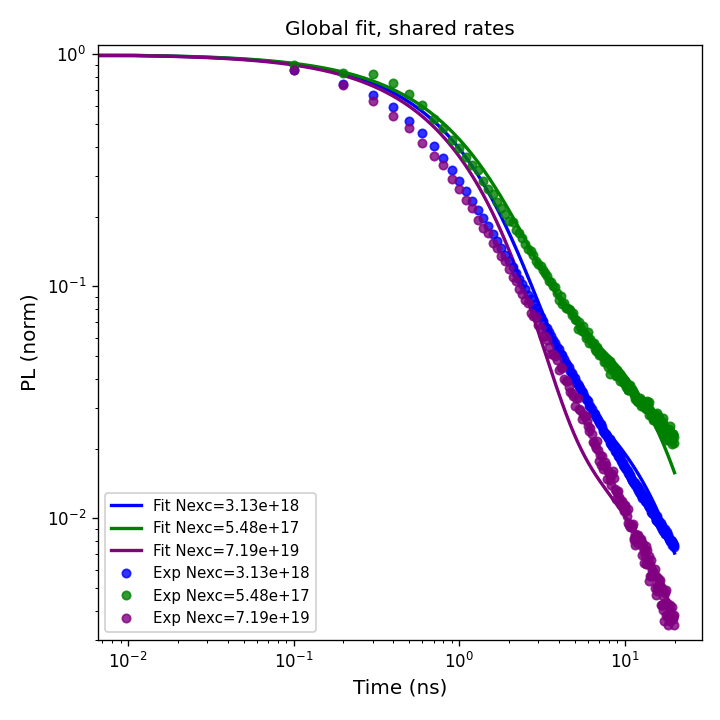
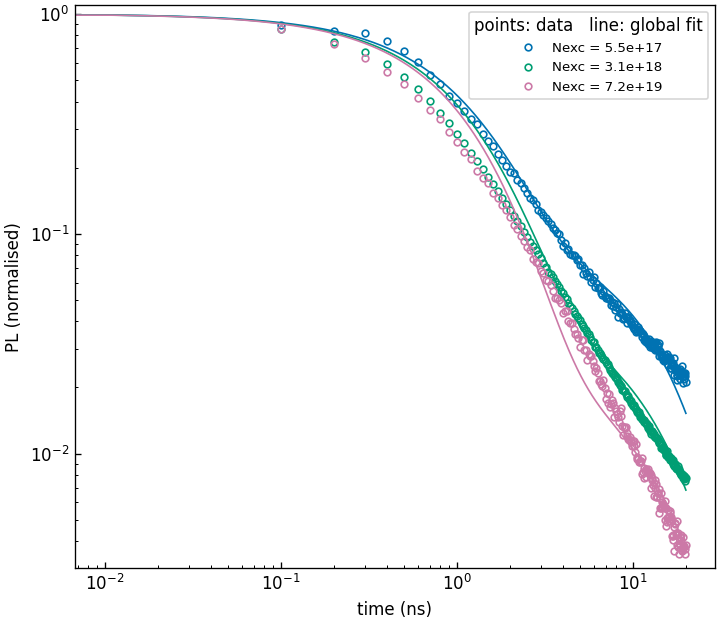
Revise n_inf identifiability writeup: exact Saha degeneracy, recomputed bias bound and weight shares, four panel-revised figures, --no-fit regen

Changed region(s): [[0.0, 0.0, 1.0, 0.9439], [0.4889, 0.9439, 0.6111, 1.0]]

diff --git a/experiments/saha-reaction-diffusion/lifetime_identifiability.py b/experiments/saha-reaction-diffusion/lifetime_identifiability.py
@@ -7,21 +7,26 @@ one ``*_uJcm2.npy`` per fluence (each a dict with ``Time (ns)`` and
   fit       -- global fit of all fluences with one shared rate set
                (nu, rho, lam, gamma, qtrap), only Nexc differing.
   profile   -- deterministic profile likelihood of each rate (fix one, refit the
-               rest; SSR vs the fixed rate), with ~1sigma confidence intervals.
-               A flat profile means the rate is not determined by the data.
-  tradeoff  -- demonstrates the Saha rho<->nu degeneracy: refit nu while
-               profiling rho; nu tracks nu_eff - rho*A (the fit holds nu + rho*A
-               fixed) until rho*A reaches nu and the fit breaks.
+               rest; SSR vs the fixed rate), with an ~1sigma threshold. A flat
+               profile means the rate is not determined by the data.
+  tradeoff  -- the Saha rho<->nu degeneracy: refit nu while profiling rho. nu
+               tracks nu_eff - rho*A (the fit holds nu + rho*A fixed) and lam,
+               gamma do not move, until rho*A reaches nu and the fit breaks.
+  saha      -- the exact Saha identity (1-x) = x^2 n/A makes the exciton rate
+               nu(1-x) and the bimolecular rate rho*x^2*n proportional at all
+               densities (constant ratio nu/(rho*A)), so the fit sees only their
+               sum nu + rho*A. This is why rho is degenerate with nu.
 
 The model mirrors Lifetime_fit_global.py. A Meitner-Auger term was tested
 separately and is not needed for the n_inf data (its coefficient runs to zero),
 so it is omitted here. qratio is shared across fluences.
 
-Example::
+Examples::
 
-    python lifetime_identifiability.py \
-      --data "P:/Marc/shared_data/data_links/Diffusion_simulation_Antonella/TPLM" \
-      --sample n_inf --out output/n_inf_lifetime --mode all
+    python lifetime_identifiability.py --data "<TPLM folder>" --sample n_inf \
+        --out output/n_inf_lifetime --mode all
+    # regenerate the figures from the cached best fit, skipping the optimiser:
+    python lifetime_identifiability.py --data "<TPLM folder>" --no-fit
 """
 from __future__ import annotations
 
@@ -36,10 +41,14 @@ import matplotlib
 matplotlib.use("Agg")
 import matplotlib.pyplot as plt
 
-# fit-space parameter vector: [log10 nu, log10 rho, log10 lam, log10 gamma,
-#                              qtrap, qratio]
+plt.rcParams.update({"axes.grid": False})
+CB = ["#0072B2", "#009E73", "#CC79A7"]   # colorblind-safe: blue, green, magenta
+
 NAMES = ["nu", "rho", "lam", "gamma", "qtrap", "qratio"]
 BOUNDS = [(3, 12), (-18, -8), (3, 9), (3, 11), (0, 100), (0, 100)]
+# cached global best fit (for --no-fit figure regeneration)
+CACHED_BEST = np.array([np.log10(6.58e8), np.log10(5.95e-14), np.log10(4.06e8),
+                        np.log10(1.05e8), 35.96, 98.41])
 
 H = 6.62607015e-34; KB = 1.380649e-23; M0 = 9.10938356e-31
 T = 300.0; Q0 = 1.602176634e-19
@@ -49,9 +58,8 @@ ALPHA = 2e5            # absorption coefficient (1/m), for Nexc from fluence
 
 def load_data(data_dir, sample, laser_nm=LASER_NM):
     """Return (A, Nexc_list, time_list, pl_list) for the sample's fluences."""
-    js = glob.glob(os.path.join(data_dir, "*.json"))
     s = None
-    for j in js:
+    for j in glob.glob(os.path.join(data_dir, "*.json")):
         d = json.load(open(j))
         if isinstance(d, dict) and sample in d:
             s = d[sample]; break
@@ -113,7 +121,6 @@ def ssr(p, data):
     return tot, N
 
 
-# --------------------------------------------------------------------------
 def global_fit(data, seed=50, maxiter=1000):
     res = differential_evolution(lambda p: ssr(p, data)[0], BOUNDS, seed=seed,
                                  maxiter=maxiter, tol=1e-7, popsize=15,
@@ -135,76 +142,102 @@ def _refit_fixing(idx, value, pbest, data):
     return r.fun, r.x, free
 
 
-def profile(data, pbest, out, prefix, npts=21):
-    """Profile each rate; mark the ~1sigma SSR threshold; save a figure."""
-    SSR_min, N = ssr(pbest, data)
-    s2 = SSR_min / (N - 6)
-    thr = SSR_min + s2
-    print(f"SSR_min={SSR_min:.4e} N={N} s^2={s2:.3e}  (1sigma: deltaSSR=s^2)")
-    grids = {0: np.linspace(7.0, 10.0, npts), 2: np.linspace(7.0, 9.0, npts),
-             3: np.linspace(5.0, 11.0, npts+4), 1: np.linspace(-18, -9, npts+4)}
-    fig, axes = plt.subplots(2, 2, figsize=(11, 8))
-    for ax, idx in zip(axes.ravel(), [0, 2, 3, 1]):
-        grid = grids[idx]
-        prof = np.array([_refit_fixing(idx, v, pbest, data)[0] for v in grid])
-        ax.plot(grid, prof, "o-"); ax.axhline(thr, color="g", ls=":",
-                                               label="SSR_min + s^2")
-        ax.axvline(pbest[idx], color="r", ls="--", lw=1, label="best fit")
-        ax.set_xlabel("log10 " + NAMES[idx]); ax.set_ylabel("profiled SSR")
-        rng = np.nanmax(prof) - np.nanmin(prof)
-        verdict = "determined" if rng > 10*s2 else "DEGENERATE (flat)"
-        ax.set_title(f"{NAMES[idx]}: {verdict}", fontsize=10); ax.legend(fontsize=8)
-        print(f"  {NAMES[idx]:6s} dSSR over scan = {rng:.3e}  -> {verdict}")
-    fig.tight_layout()
-    path = os.path.join(out, f"{prefix}_profile_ci.png"); fig.savefig(path, dpi=115)
-    print("saved", path)
-
-
-def tradeoff(data, pbest, out, prefix, npts=25):
-    """Profile rho, recording the refit nu, to show nu = nu_eff - rho*A."""
-    A = data[0]
-    nu_eff = 10**pbest[0]
-    grid = np.linspace(-11, -8, npts)
-    ssr_v, nu_v = [], []
-    for lr in grid:
-        fun, x, free = _refit_fixing(1, lr, pbest, data)
-        ssr_v.append(fun); nu_v.append(10**x[free.index(0)])
-    ssr_v, nu_v = np.array(ssr_v), np.array(nu_v)
-    rho = 10**grid; cross = np.log10(nu_eff/A)
-    print(f"rho*A = nu_eff at rho = {nu_eff/A:.3e} (log10 {cross:.2f})")
-    fig, ax = plt.subplots(1, 2, figsize=(11, 4.3))
-    ax[0].plot(grid, ssr_v, "o-"); ax[0].axvline(cross, color="g", ls=":",
-                                                  label="rho*A = nu_eff")
-    ax[0].set_xlabel("log10 rho"); ax[0].set_ylabel("profiled SSR")
-    ax[0].set_title("fit quality flat until rho*A reaches nu"); ax[0].legend(fontsize=8)
-    ax[1].plot(grid, nu_v, "o-", label="refit nu")
-    ax[1].plot(grid, np.clip(nu_eff-rho*A, 0, None), "r--", label="nu_eff - rho*A")
-    ax[1].axvline(cross, color="g", ls=":")
-    ax[1].set_xlabel("log10 rho"); ax[1].set_ylabel("nu (/s)")
-    ax[1].set_title("nu drops to keep nu + rho*A fixed (the degeneracy)")
-    ax[1].legend(fontsize=8); fig.tight_layout()
-    path = os.path.join(out, f"{prefix}_rho_tradeoff.png"); fig.savefig(path, dpi=115)
-    print("saved", path)
-
-
 def plot_fit(data, pbest, out, prefix):
     A, Nexc, times, pls = data
     nu, rho, lam, gamma, qtrap, qratio = (10**pbest[0], 10**pbest[1], 10**pbest[2],
                                           10**pbest[3], pbest[4], pbest[5])
-    fig, ax = plt.subplots(figsize=(6, 6))
-    colors = ["blue", "green", "purple"]
-    for i, (n0, te, ple) in enumerate(zip(Nexc, times, pls)):
-        c = colors[i % len(colors)]; mv = te <= 20.0
-        ax.plot(te[mv], ple[mv]/(np.max(ple[mv])+1e-30), "o", ms=4, color=c,
-                label=f"Exp Nexc={n0:.2e}")
+    fig, ax = plt.subplots(figsize=(6, 5.2), constrained_layout=True)
+    order = np.argsort(Nexc)
+    for i in order:
+        c = CB[list(order).index(i) % 3]
+        te, ple, n0 = times[i], pls[i], Nexc[i]
+        mv = te <= 20.0
+        ax.plot(te[mv], ple[mv]/(np.max(ple[mv])+1e-30), "o", ms=4, mfc="none",
+                color=c, label=f"Nexc = {n0:.1e}")
         ts, ys = run_lifetime(A, qratio, nu, rho, n0, lam, gamma, qtrap)
-        ax.plot(ts*1e9, ys, "-", color=c, lw=2)
+        ax.plot(ts*1e9, ys, "-", color=c, lw=1)
     ax.set_xscale("log"); ax.set_yscale("log"); ax.set_ylim(3e-3, 1.1)
-    ax.set_xlabel("Time (ns)"); ax.set_ylabel("PL (norm)")
-    ax.set_title("Global fit, shared rates"); ax.legend(fontsize=8)
-    fig.tight_layout()
-    path = os.path.join(out, f"{prefix}_global_fit.png"); fig.savefig(path, dpi=115)
-    print("saved", path)
+    ax.set_xlabel("time (ns)"); ax.set_ylabel("PL (normalised)")
+    ax.tick_params(direction="in", which="both")
+    ax.legend(fontsize=8, title="points: data   line: global fit")
+    p = os.path.join(out, f"{prefix}_global_fit.png"); fig.savefig(p, dpi=120)
+    print("saved", p)
+
+
+def profile(data, pbest, out, prefix, npts=19):
+    SSR_min, N = ssr(pbest, data); s2 = SSR_min/(N-6)
+    print(f"SSR_min={SSR_min:.4e} N={N} s^2={s2:.3e}")
+    specs = [(0, "nu  (s^-1)", np.linspace(7, 10, npts)),
+             (2, "lam  (s^-1)", np.linspace(7, 9, npts)),
+             (3, "gamma  (s^-1)", np.linspace(5, 11, npts+6)),
+             (1, "rho  (cm^3 s^-1)", np.linspace(-18, -9, npts))]
+    fig, axes = plt.subplots(2, 2, figsize=(11, 8), constrained_layout=True)
+    for ax, (idx, lab, grid) in zip(axes.ravel(), specs):
+        prof = np.array([_refit_fixing(idx, v, pbest, data)[0] for v in grid]) - SSR_min
+        ax.plot(grid, prof, "o-", color=CB[0])
+        ax.axhline(s2, color="0.4", ls=":", label="s^2 (~1 sigma)")
+        ax.axvline(pbest[idx], color=CB[2], ls="--", lw=1)
+        ax.set_xlabel("log10 " + lab); ax.set_ylabel("SSR - SSR_min")
+        ax.set_ylim(-0.05*max(8*s2, 1), max(8*s2, 1.3*np.nanpercentile(prof, 35)+1e-9))
+        ax.tick_params(direction="in"); ax.legend(fontsize=8)
+        rng = float(np.nanmax(prof))
+        print(f"  {NAMES[idx]:6s} max(SSR-SSR_min) over scan = {rng:.3e}"
+              f"  -> {'determined' if rng > 10*s2 else 'degenerate (flat)'}")
+    p = os.path.join(out, f"{prefix}_profile_ci.png"); fig.savefig(p, dpi=120)
+    print("saved", p)
+
+
+def tradeoff(data, pbest, out, prefix, npts=25):
+    A = data[0]; nu_eff = 10**pbest[0]
+    grid = np.linspace(-11, -8, npts)
+    ssr_v, nu_v, lam_v, gam_v = [], [], [], []
+    for lr in grid:
+        fun, x, free = _refit_fixing(1, lr, pbest, data)
+        ssr_v.append(fun); nu_v.append(10**x[free.index(0)])
+        lam_v.append(10**x[free.index(2)]); gam_v.append(10**x[free.index(3)])
+    ssr_v, nu_v, lam_v, gam_v = map(np.array, (ssr_v, nu_v, lam_v, gam_v))
+    rho = 10**grid; cross = np.log10(nu_eff/A)
+    flat = grid < cross
+    print(f"  over the flat region: lam spread "
+          f"{100*(lam_v[flat].max()/lam_v[flat].min()-1):.2f}%, "
+          f"gamma spread {100*(gam_v[flat].max()/gam_v[flat].min()-1):.2f}%")
+    fig, ax = plt.subplots(1, 2, figsize=(11, 4.3), constrained_layout=True)
+    ax[0].plot(grid, ssr_v, "o-", color=CB[0]); ax[0].axvline(cross, color="0.4", ls=":")
+    ax[0].set_xlabel("log10 rho  (cm^3 s^-1)"); ax[0].set_ylabel("profiled SSR")
+    ax[0].tick_params(direction="in")
+    ax[1].plot(grid, nu_v, "o", color=CB[0], label="refit nu")
+    ax[1].plot(grid, np.clip(nu_eff-rho*A, 0, None), "--", color="0.2",
+               label="nu_eff - rho*A")
+    ax[1].plot(grid, lam_v, "s", ms=3, color=CB[1], label="lam (refit)")
+    ax[1].plot(grid, gam_v, "^", ms=3, color=CB[2], label="gamma (refit)")
+    ax[1].axvline(cross, color="0.4", ls=":")
+    ax[1].set_xlabel("log10 rho  (cm^3 s^-1)"); ax[1].set_ylabel("rate (s^-1)")
+    ax[1].tick_params(direction="in"); ax[1].legend(fontsize=8)
+    p = os.path.join(out, f"{prefix}_rho_tradeoff.png"); fig.savefig(p, dpi=120)
+    print("saved", p)
+
+
+def saha(data, pbest, out, prefix):
+    A, Nexc = data[0], data[1]
+    nu = 10**pbest[0]; rho = 1e-10
+    n = np.logspace(15, 21, 400); x = 2/(np.sqrt(4*n/A+1)+1)
+    exc = nu*(1-x); bim = rho*x*x*n
+    fig, ax = plt.subplots(1, 2, figsize=(11, 4.4), constrained_layout=True)
+    ax[0].loglog(n, exc, color=CB[0], lw=2, label="exciton  nu(1-x)")
+    ax[0].loglog(n, bim, color=CB[1], lw=2,
+                 label="bimolecular  rho x^2 n  (rho=1e-10)")
+    ax[0].axvline(A, color="0.4", ls=":", label="n = A")
+    ax[1].semilogx(n, exc/bim, color="0.2", lw=2)
+    ax[1].axhline(nu/(rho*A), color=CB[2], ls="--", label="nu / (rho A)")
+    ax[1].axvline(A, color="0.4", ls=":"); ax[1].set_ylim(0, 2*nu/(rho*A))
+    for a in ax:
+        for nx in Nexc:
+            a.axvline(nx, color="0.8", lw=0.8)
+        a.tick_params(direction="in", which="both"); a.set_xlabel("density n  (cm^-3)")
+    ax[0].set_ylabel("per-carrier rate  (s^-1)"); ax[0].legend(fontsize=8, loc="lower right")
+    ax[1].set_ylabel("exciton rate / bimolecular rate"); ax[1].legend(fontsize=8)
+    p = os.path.join(out, f"{prefix}_saha_collapse.png"); fig.savefig(p, dpi=120)
+    print("saved", p)
 
 
 def main():
@@ -214,17 +247,23 @@ def main():
     p.add_argument("--sample", default="n_inf")
     p.add_argument("--out", default="output/lifetime_identifiability")
     p.add_argument("--mode", default="all",
-                   choices=["all", "fit", "profile", "tradeoff"])
+                   choices=["all", "fit", "profile", "tradeoff", "saha"])
+    p.add_argument("--no-fit", action="store_true",
+                   help="skip the optimiser; use the cached best fit "
+                        "(for regenerating figures)")
     p.add_argument("--seed", type=int, default=50)
     args = p.parse_args()
 
     os.makedirs(args.out, exist_ok=True)
     data = load_data(args.data, args.sample)
-    print(f"A = {data[0]:.3e} cm^-3;  {len(data[1])} fluences "
-          f"(Nexc {min(data[1]):.2e}..{max(data[1]):.2e})")
+    print(f"A = {data[0]:.3e} cm^-3;  {len(data[1])} fluences")
 
-    print("global fit (seeded differential_evolution)...")
-    pbest = global_fit(data, seed=args.seed)
+    if args.no_fit:
+        pbest = CACHED_BEST.copy()
+        print("using cached best fit")
+    else:
+        print("global fit (seeded differential_evolution)...")
+        pbest = global_fit(data, seed=args.seed)
     nu, rho, lam, gamma, qtrap, qratio = (10**pbest[0], 10**pbest[1], 10**pbest[2],
                                           10**pbest[3], pbest[4], pbest[5])
     print(f"  nu={nu:.3e} rho={rho:.3e} lam={lam:.3e} gamma={gamma:.3e} "
@@ -237,6 +276,8 @@ def main():
         profile(data, pbest, args.out, prefix)
     if args.mode in ("all", "tradeoff"):
         tradeoff(data, pbest, args.out, prefix)
+    if args.mode in ("all", "saha"):
+        saha(data, pbest, args.out, prefix)
 
 
 if __name__ == "__main__":

diff --git a/experiments/saha-reaction-diffusion/README.md b/experiments/saha-reaction-diffusion/README.md
@@ -62,16 +62,19 @@ model fix and a calibration-reliability finding:
   `__main__` guard), so they are not import-smoke-tested here; see each file's
   docstring.
 - `lifetime_identifiability.py` — identifiability analysis of the global lifetime
-  fit (same adjacent paper): the global fit, then a deterministic profile
-  likelihood of each rate, then a demonstration of the Saha rho-nu degeneracy.
-  Result: nu, the trapping rate lam, and the trap decay gamma are determined; rho
-  is not — at n ≥ A the Saha free-charge fraction makes the bimolecular rate scale
-  as `rho*A`, degenerate with nu, so the fit determines only `nu + rho*A`. Unlike
-  the two scripts above it is parameterized (`--data`, `--sample`) and runnable;
-  point `--data` at the TPLM folder in `DATASETS.md`. Figures
+  fit (same adjacent paper): the global fit (`fit`), a deterministic profile
+  likelihood of each rate (`profile`), the Saha rho-nu trade (`tradeoff`), and the
+  Saha exact-proportionality figure (`saha`). Result: nu, the trapping rate lam,
+  and the trap decay gamma are determined; rho is not. The degeneracy is exact:
+  the Saha identity `(1-x) = x^2 n/A` makes the exciton rate `nu(1-x)` exactly
+  proportional to the bimolecular rate `rho*x^2*n` at every density, so the fit
+  determines only `nu + rho*A`. Parameterized (`--data`, `--sample`) and runnable;
+  point `--data` at the TPLM folder in `DATASETS.md`. `--no-fit` regenerates the
+  figures from the cached best fit without re-running the optimiser. Figures
   `n_inf_lifetime_global_fit.png`, `n_inf_lifetime_profile_ci.png`,
-  `n_inf_lifetime_rho_tradeoff.png`, each with a caption beside it; the full
-  write-up is on the pshare (see `DATASETS.md`).
+  `n_inf_lifetime_rho_tradeoff.png`, `n_inf_lifetime_saha_collapse.png`, each with
+  a caption beside it; the full write-up (`n_inf_identifiability.pdf`, with its
+  LaTeX source) is on the pshare (see `DATASETS.md`).
 - `nonfickian_gaps.png`, `profile_likelihood_De_Df.png`,
   `saha_second_moment_bias.png`, `poster_saha_nonfickian.png` — committed figure
   snapshots for this bed (the diagnostics referenced above).

diff --git a/experiments/saha-reaction-diffusion/n_inf_lifetime_rho_tradeoff_caption.md b/experiments/saha-reaction-diffusion/n_inf_lifetime_rho_tradeoff_caption.md
@@ -1,7 +1,8 @@
-The Saha rho-nu degeneracy made visible. Profiling rho while re-fitting nu: the
-re-fit nu (left, blue) tracks nu_eff - rho*A (red dashed) to four significant
-figures, holding nu + rho*A fixed, while the fit quality (right) stays flat --
-until rho*A reaches nu (green line, ~1.5e-9), where nu can no longer compensate
-(it pins to its floor) and the fit breaks. The lifetime data determine only the
-sum nu + rho*A, not rho on its own, because at n >= A the Saha free-charge
-fraction makes the bimolecular rate scale as rho*A, the same density form as nu.
+The Saha rho-nu degeneracy made visible. Profiling rho while re-fitting the rest.
+Left: the fit quality (SSR) stays flat until rho*A reaches nu (dotted, ~1.5e-9),
+where nu can no longer compensate and the fit breaks. Right: the re-fit nu (blue)
+tracks nu_eff - rho*A (dashed), while lam (green) and gamma (magenta) do not move
+at all -- only nu trades against rho. The lifetime data determine only the sum
+nu + rho*A, not rho on its own. The degeneracy is exact: the Saha identity
+(1-x) = x^2 n/A makes the exciton rate nu(1-x) exactly proportional to the
+bimolecular rate rho*x^2*n at every density (see the saha_collapse figure).

diff --git a/experiments/saha-reaction-diffusion/n_inf_lifetime_profile_ci_caption.md b/experiments/saha-reaction-diffusion/n_inf_lifetime_profile_ci_caption.md
@@ -1,5 +1,7 @@
-Profile likelihood of each rate: fix one, re-fit the rest, and read the fit
-quality (SSR) against the fixed value. nu, lam, and gamma show clear minima and
-are determined (with ~1 sigma intervals); rho is flat and is not determined by
-the lifetime data. Green dotted: the SSR_min + s^2 threshold (~1 sigma); red
-dashed: the global best fit.
+Profile likelihood of each rate: fix one, re-fit the rest, and read
+SSR - SSR_min against the fixed value. nu is determined as a bracket (a plateau
+with a hard lower wall, not a point); lam is a clean well; gamma is an interior
+minimum near 1e8 s^-1; rho is flat and is not determined by the lifetime data.
+Dotted: the s^2 threshold (~1 sigma); dashed: the global best fit. The profile
+intervals assume independent residuals, so the formal brackets (lam's most) are
+narrower than the true intervals.

diff --git a/experiments/saha-reaction-diffusion/n_inf_lifetime_saha_collapse_caption.md b/experiments/saha-reaction-diffusion/n_inf_lifetime_saha_collapse_caption.md
@@ -1,0 +1,7 @@
+The exact Saha proportionality behind the rho-nu degeneracy. The Saha free-charge
+fraction satisfies (1-x) = x^2 n/A exactly, so the exciton per-carrier rate
+nu(1-x) = nu*x^2*n/A is proportional to the bimolecular per-carrier rate
+rho*x^2*n at all densities. Left: the two per-carrier rates versus density
+(parallel on the log axes). Right: their ratio, flat at nu/(rho*A) across nine
+decades (deviation 6e-14). Dotted: n = A; light lines: the three measured
+fluences. The fit sees only the sum nu + rho*A, which is why rho is degenerate.

diff --git a/experiments/saha-reaction-diffusion/n_inf_lifetime_global_fit_caption.md b/experiments/saha-reaction-diffusion/n_inf_lifetime_global_fit_caption.md
@@ -1,4 +1,6 @@
 Global multi-fluence fit of the three n_inf PL decays with one shared rate set
 (nu, rho, lam, gamma, qtrap; only Nexc differs between curves). Points are the
-data, lines the fit. The shared-rate model reproduces all three decays across
-0.01-20 ns and the density ordering.
+data, lines the fit. The shared-rate model reproduces the overall decay shape
+across 0.01-20 ns and the density ordering; it under-fits the late-time tail at
+the two lower fluences, which bears on the trap parameters, not on the
+identifiability result below.

diff --git a/experiments/saha-reaction-diffusion/DATASETS.md b/experiments/saha-reaction-diffusion/DATASETS.md
@@ -19,5 +19,7 @@ Location (read-only):
 
 Point `lifetime_identifiability.py --data` at that TPLM folder.
 
-The full identifiability write-up (note + figures) is kept with Joseph's shared
-materials at `P:\jthiebes\free_exciton_diffusion\n_inf_identifiability\`.
+The full identifiability write-up is kept with Joseph's shared materials at
+`P:\jthiebes\free_exciton_diffusion\n_inf_identifiability\`:
+`n_inf_identifiability.pdf` (A4, the formal version), its LaTeX source, a
+markdown copy, and the four figures.
